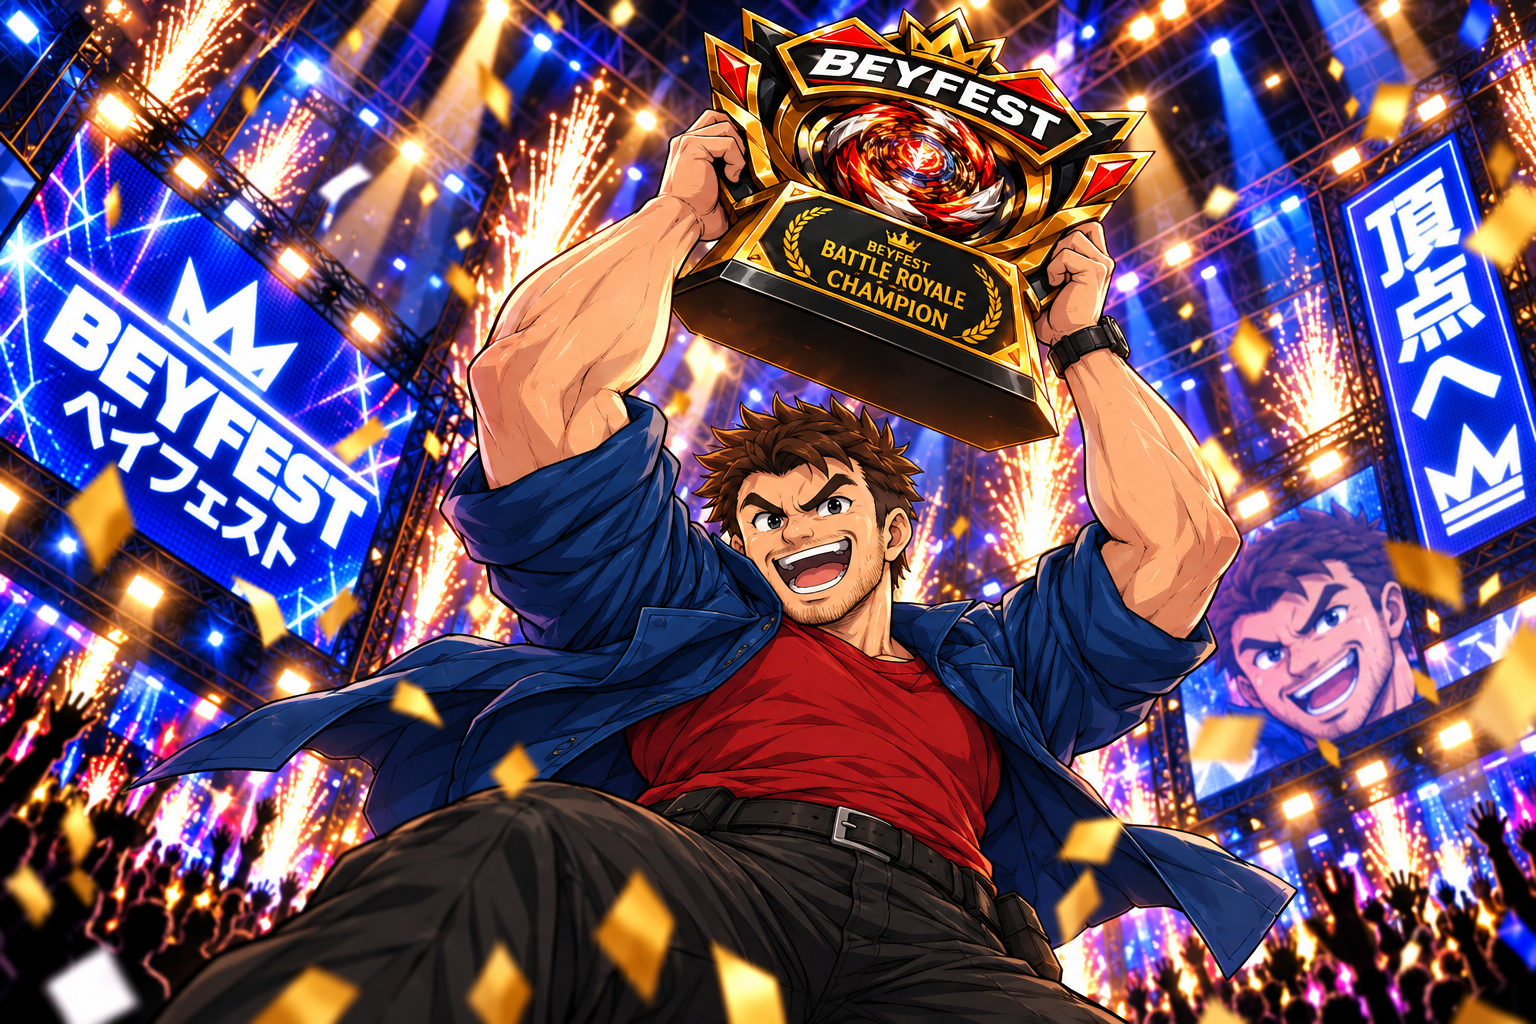
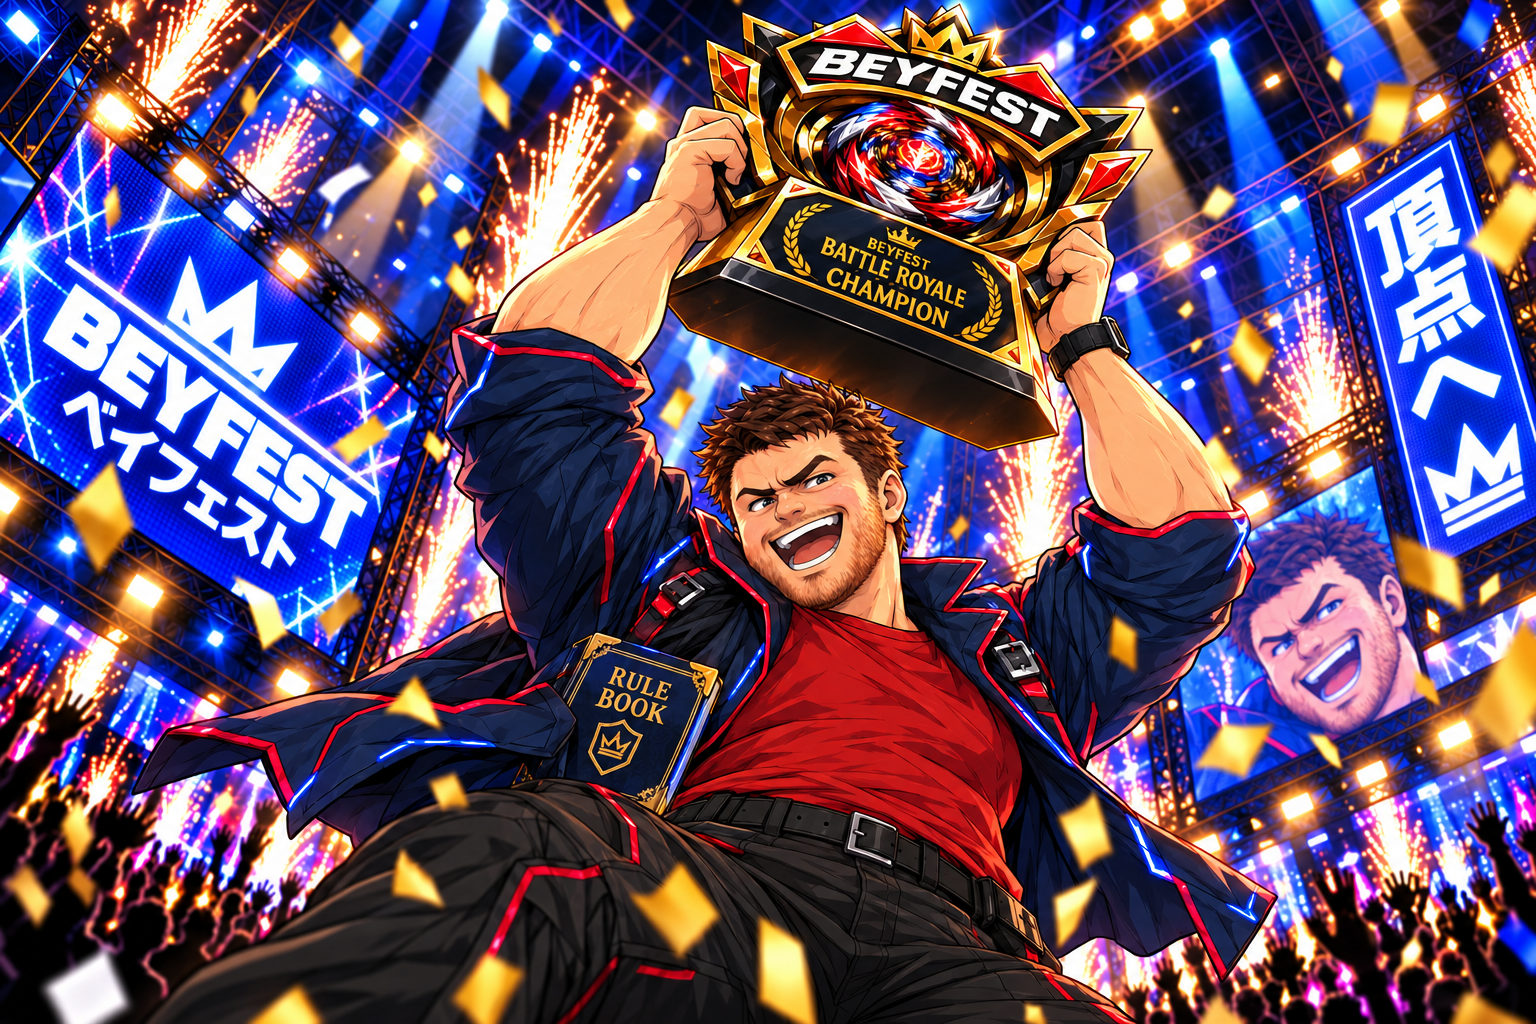
new Cheatseeker victory and royale victory images to match the new design

diff --git a/fighter-art/prompts/cheatseeker.md b/fighter-art/prompts/cheatseeker.md
@@ -37,3 +37,23 @@ From `reference-photos/cheatseeker/upload/`: `1-style-pugilist.png`,
 - The launcher arm reaches toward the lower right, slightly toward the camera.
 - A small, symmetric crown in the Beyblade's centre.
 - The hair is a bit bigger and messier than his real hair (from the poster).
+
+## RULE BOOK mirror image (2026-10-28)
+
+`approved/cheatseeker-mirrored.png`, made with
+`scripts/unflip-text.py … 318 104 400 330 88` (the cover's up axis, tilted with the
+book). It took three tries: a band centred too far left left bits of backwards
+letters; one too wide (110) reflected his thumb onto the cover. The royale lab with 4
+fighters puts him on the flipped side and uses it.
+
+## Victory images (2026-10-28): approved
+
+The same recipe as the others (scene template + approved cut-out + Pugilist head
+close-up, named by what each shows). Both came out right first time.
+
+- **Belt:** the template already had a RULE BOOK in his other hand; the prompt asked
+  for it to match the new book (navy, gold corners, gold capitals, crown crest).
+- **Royale:** both hands are on the trophy, so the prompt asked for the book tucked
+  under an arm or in the jacket; it came out in the inside pocket, still readable.
+  The arms stayed a bit muscular from the template.
+- Victory images are never flipped, so RULE BOOK needs no mirror image there.
